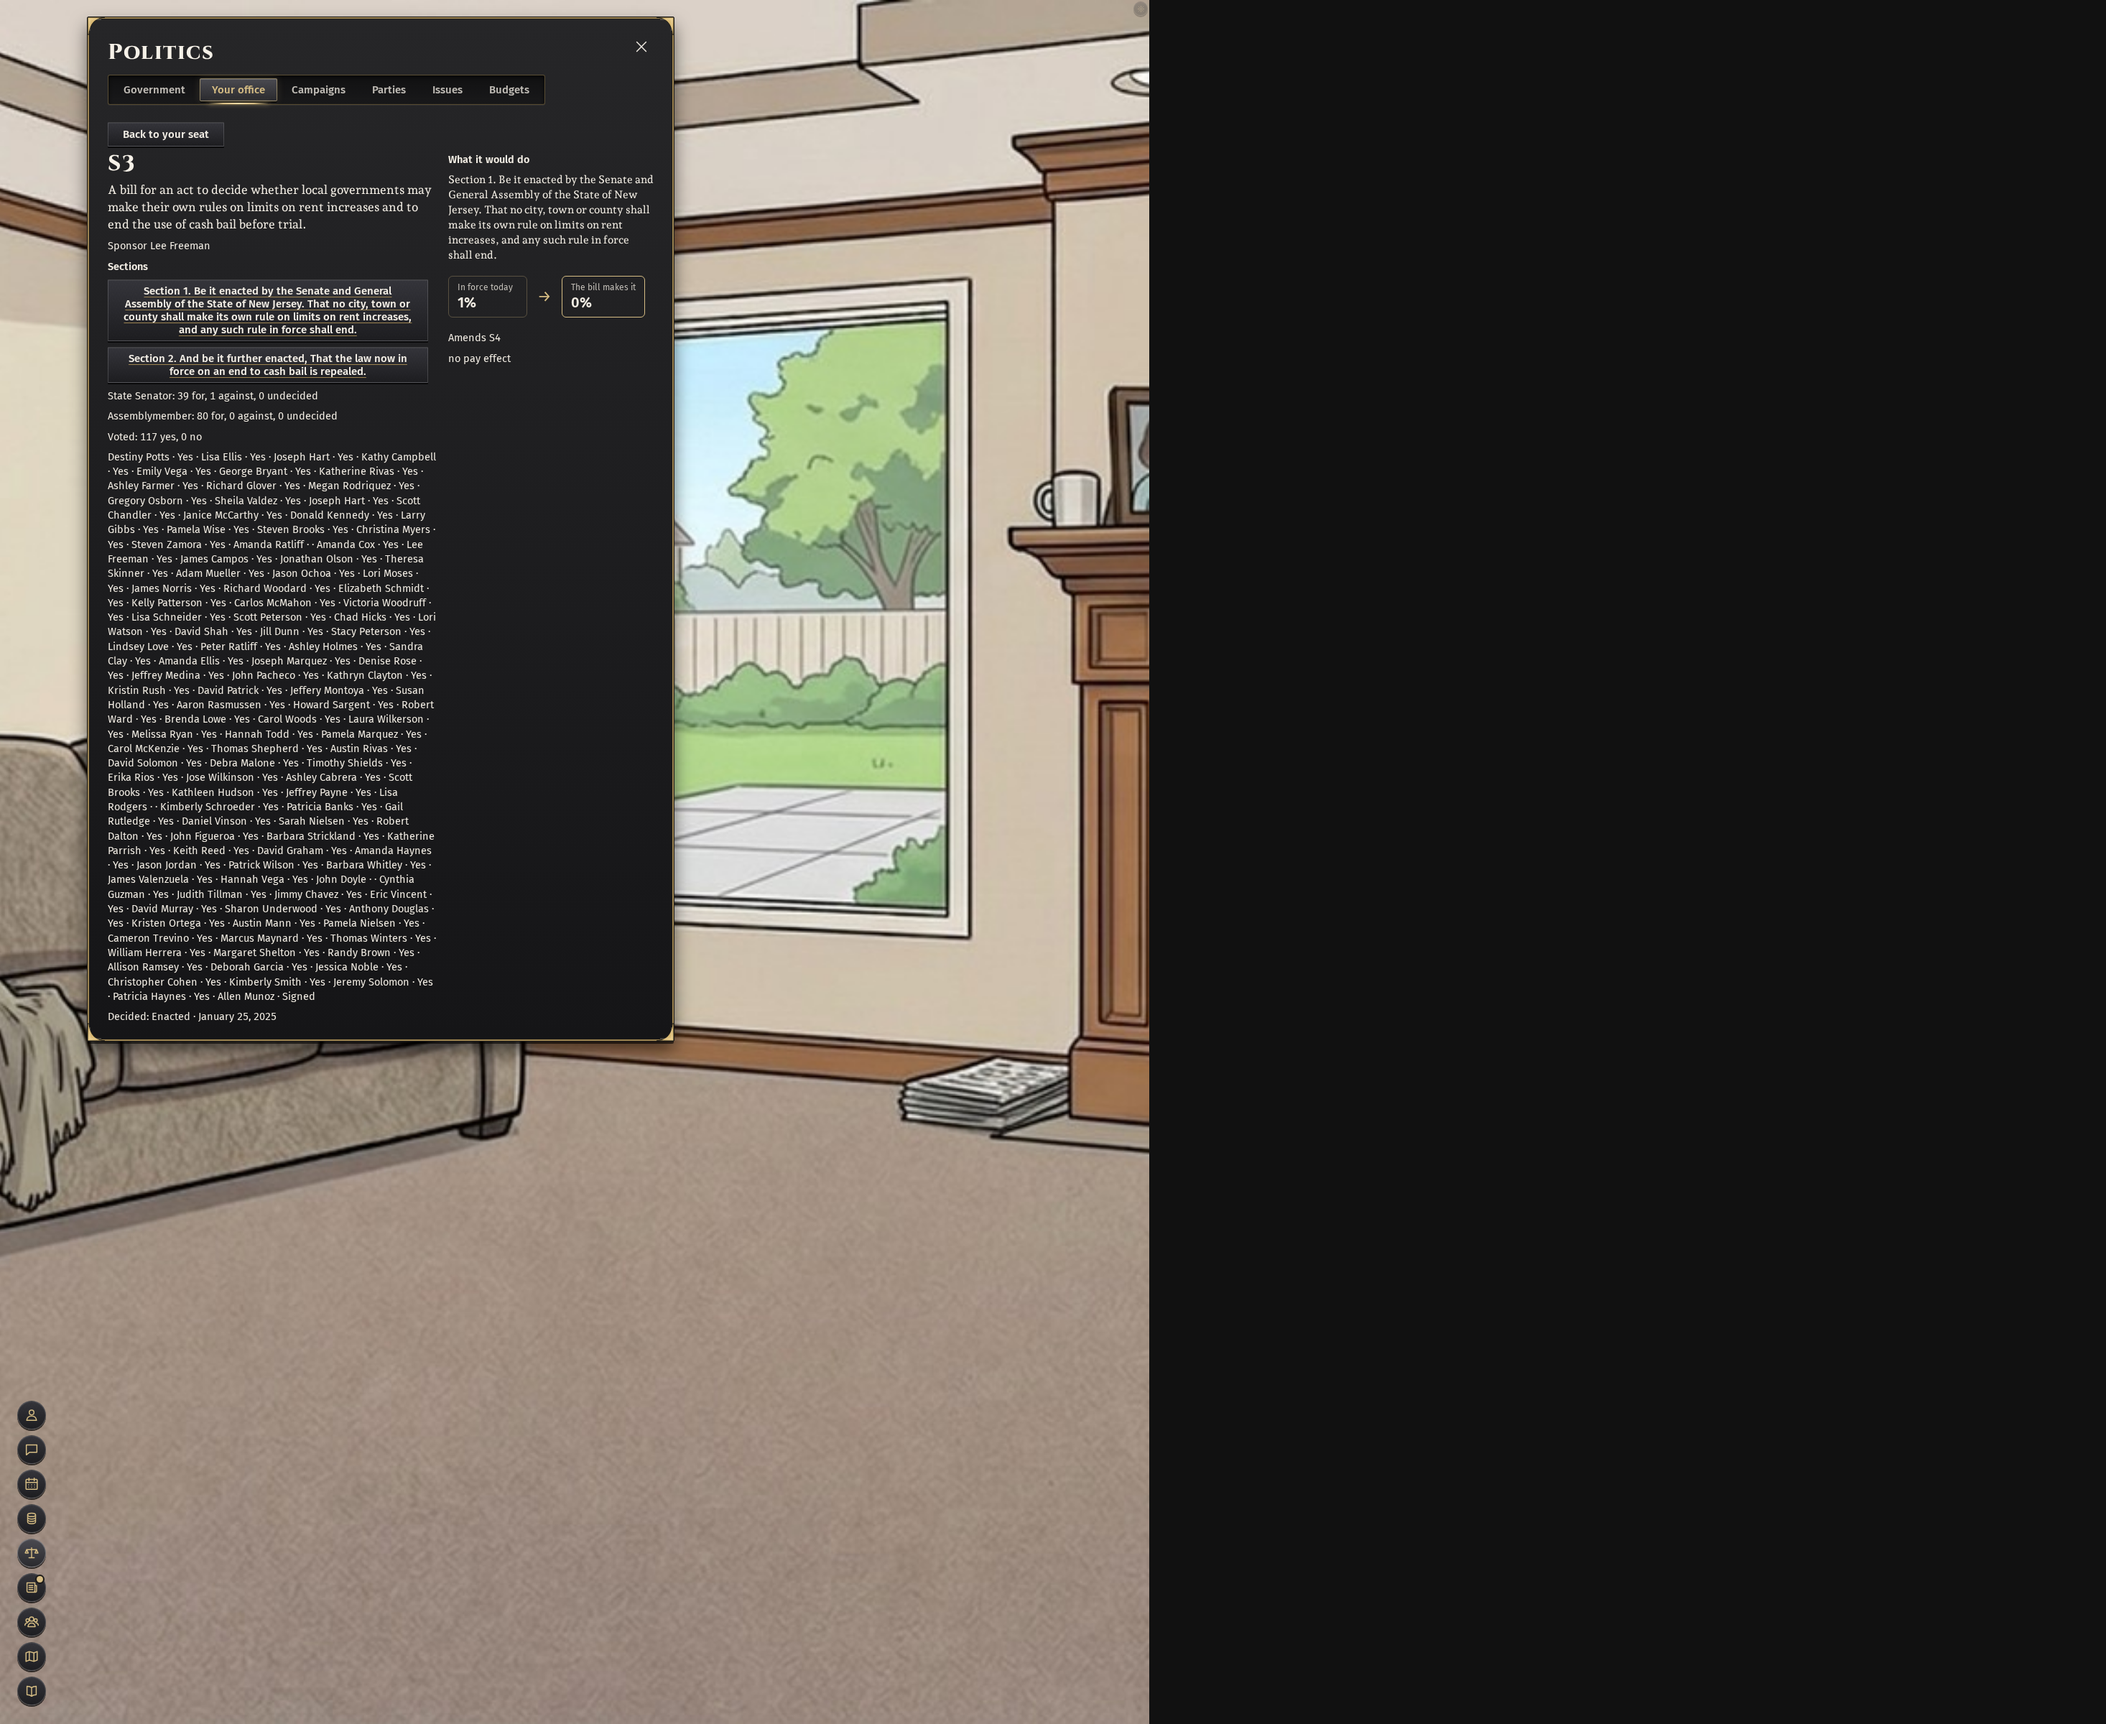
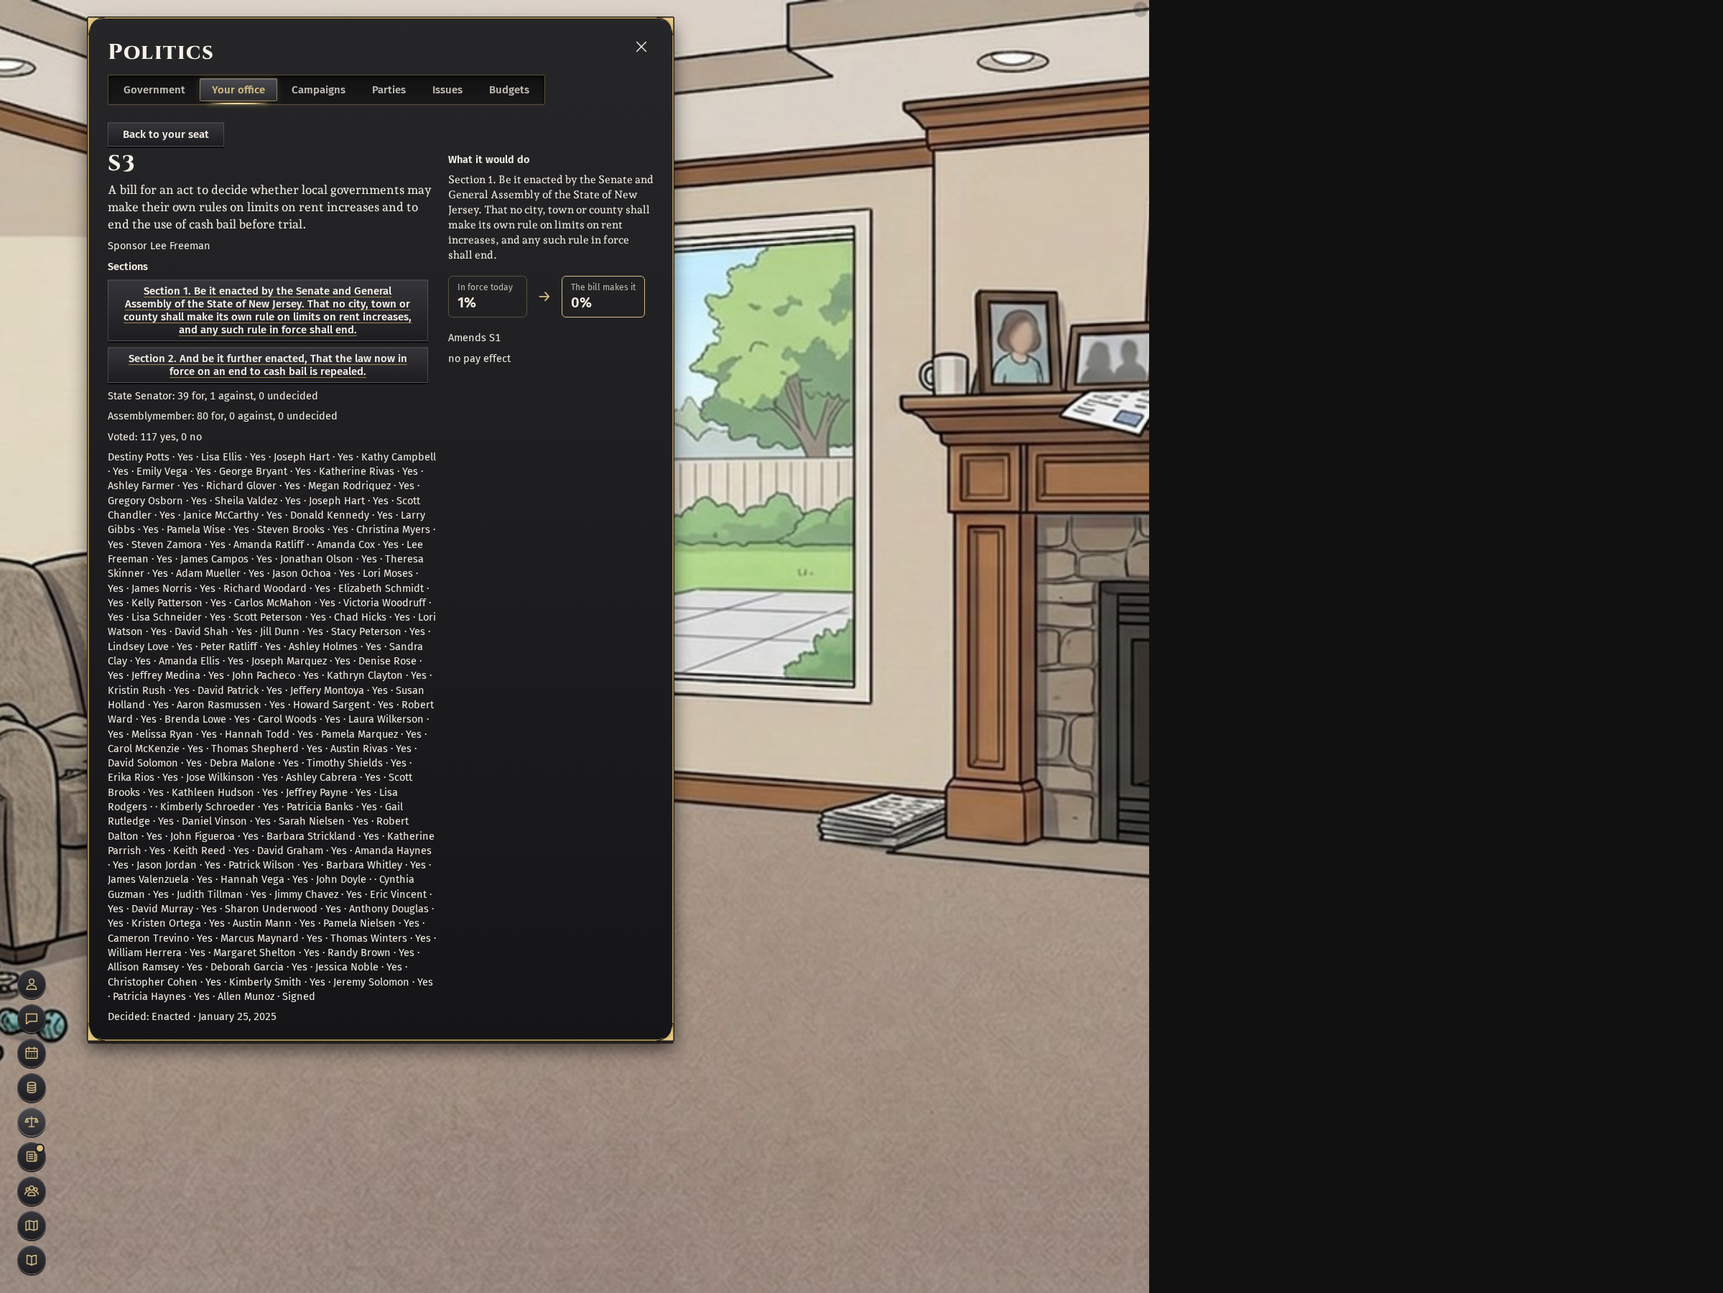
perf: reuse current law answers and capture bills before their effective dates

diff --git a/scripts/law-levels-state-proof.ts b/scripts/law-levels-state-proof.ts
@@ -3,7 +3,8 @@
  * A losing vote is a reported unsuccessful draw, not a forced outcome.
  */
 import { randomBytes } from "node:crypto";
-import { writeFileSync } from "node:fs";
+import { mkdirSync, writeFileSync } from "node:fs";
+import { join } from "node:path";
 import { drawPlace } from "../scripts/core2-year/place";
 import { benchRequest, benchWorld, serialize } from "../src/bench/handler";
 import { townSeats } from "../src/core2/modules/offices";
@@ -32,7 +33,9 @@ async function main() {
   const replay = process.argv[2] ?? randomBytes(8).toString("hex");
   const place = drawPlace(replay, "played-law-reversals");
   console.log(JSON.stringify({ replay, place }));
-  if (process.argv.includes("--serve")) await import("../src/bench/server");
+  const screenshotDir = process.env.LAW_PROOF_SCREENSHOTS;
+  if (process.argv.includes("--serve") || screenshotDir)
+    await import("../src/bench/server");
   const request = async (path: string) => {
     const r = await benchRequest(
       "POST",
@@ -128,6 +131,67 @@ async function main() {
         `/api/desk?${new URLSearchParams({ billId: bill.id, how: "sign" })}`,
       );
       result = billOf(api, bill.id);
+    }
+    if (
+      screenshotDir &&
+      body === state?.id &&
+      proof.length >= 2 &&
+      result.status === "enacted"
+    ) {
+      // Read the native enacted paper before its effective date, while the
+      // preceding law still governs. Restore the executive before time moves.
+      await request(`/api/play?id=${encodeURIComponent(memberKey(sponsor))}`);
+      const { chromium } = await import("playwright");
+      const browser = await chromium.launch({ headless: true });
+      try {
+        const page = await browser.newPage({
+          viewport: { width: 1600, height: 1800 },
+        });
+        await page.goto("http://localhost:3000/play");
+        await page.getByTestId("continue").click();
+        await page.locator("#game").waitFor({ state: "visible" });
+        await page
+          .getByRole("button", { name: "Politics", exact: true })
+          .click();
+        await page.locator("#sheet-tabs [data-tab=office]").click();
+        await page.locator(".office-screen").waitFor({ state: "visible" });
+        const drafts = page.getByRole("button", {
+          name: "Drafts",
+          exact: true,
+        });
+        if (await drafts.isVisible()) await drafts.click();
+        if (proof.length === 3)
+          await page
+            .getByRole("button", { name: "Next page", exact: true })
+            .click();
+        await page
+          .getByRole("button", { name: "Read the bill", exact: true })
+          .nth(proof.length === 2 ? 1 : 0)
+          .click();
+        await page
+          .getByRole("button", { name: "Back to your seat", exact: true })
+          .waitFor({ state: "visible" });
+        await page
+          .getByRole("heading", {
+            name: billPaper(core, bill.id).spoken,
+            exact: true,
+          })
+          .waitFor({ state: "visible" });
+        mkdirSync(screenshotDir, { recursive: true });
+        await page.screenshot({
+          path: join(
+            screenshotDir,
+            proof.length === 2 ? "ban-paper.png" : "restore-paper.png",
+          ),
+          fullPage: true,
+        });
+      } finally {
+        await browser.close();
+      }
+      if (executive)
+        await request(
+          `/api/play?id=${encodeURIComponent(memberKey(executive))}`,
+        );
     }
     const rows = api
       .moduleState(LAWS_MODULE_ID)

diff --git a/src/core2/modules/laws.ts b/src/core2/modules/laws.ts
@@ -544,6 +544,24 @@ export function lawInForce(
   series: string,
   date: string = api.state.date,
 ): LawInForceAnswer {
+  if (tableTraceOn() || date !== api.state.date)
+    return readLawInForce(api, series, date);
+  const writes = api.moduleState(LAWS_MODULE_ID).writes;
+  let kept = todaysLaw.get(api.state);
+  if (!kept || kept.writes !== writes || kept.date !== date)
+    todaysLaw.set(api.state, (kept = { writes, date, answers: new Map() }));
+  let answer = kept.answers.get(series);
+  if (!answer)
+    kept.answers.set(series, (answer = readLawInForce(api, series, date)));
+  return answer;
+}
+
+/** The sole uncached path, also used for history and traced reads. */
+function readLawInForce(
+  api: CoreAPI,
+  series: string,
+  date: string,
+): LawInForceAnswer {
   const chain = lawChain(api);
   // Only a wage floor reads the state's grant of local authority, and only
   // the sales tax its state's average local rate: no other law reads them.
@@ -596,11 +614,14 @@ export function localPowerBarred(
   question: string,
   date: string = api.state.date,
 ): boolean {
-  const row = lawInForce(
-    api,
-    `${LOCAL_POWER_PREFIX}${question}`,
-    date,
-  ).levels.find((level) => level.level === "state")?.row;
+  const series = `${LOCAL_POWER_PREFIX}${question}`;
+  // Most questions have no grant/bar act yet. An empty series cannot change
+  // the researched starting rule; do not build an empty answer for each read.
+  const row = seriesRows(api, series).length
+    ? lawInForce(api, series, date).levels.find(
+        (level) => level.level === "state",
+      )?.row
+    : undefined;
   if (row && row.value !== null) return row.value === 0;
   return (
     POLICY_QUESTIONS[question]?.answers[lawChain(api).stateKey]?.preempts ===
@@ -625,15 +646,7 @@ export function lawInForceToday(
   api: CoreAPI,
   series: string,
 ): LawInForceAnswer {
-  if (tableTraceOn()) return lawInForce(api, series);
-  const writes = api.moduleState(LAWS_MODULE_ID).writes,
-    date = api.state.date;
-  let kept = todaysLaw.get(api.state);
-  if (!kept || kept.writes !== writes || kept.date !== date)
-    todaysLaw.set(api.state, (kept = { writes, date, answers: new Map() }));
-  let answer = kept.answers.get(series);
-  if (!answer) kept.answers.set(series, (answer = lawInForce(api, series)));
-  return answer;
+  return lawInForce(api, series);
 }
 
 /**

diff --git a/src/core2/pending-law-reversal.test.ts b/src/core2/pending-law-reversal.test.ts
@@ -60,6 +60,7 @@ it(`a later act can advance or repeal a pending law: ${place.name}, replay ${rep
     ).toBeNull();
     const repeal = write(0, opening, "reader-later-repeal");
     expect(federal(later)?.id).toBe(repeal.id);
+    expect(federal(opening)?.id).toBe(repeal.id);
     expect(lawInForce(api, question, later).governing?.id).toBe(
       starting.governing?.id,
     );

diff --git a/docs/reports/law-levels-state-reversal-2026-11-07/README.md b/docs/reports/law-levels-state-reversal-2026-11-07/README.md
@@ -13,18 +13,20 @@ The replay was drawn before the first probe. The route opens an ordinary new lif
 
 The ordinance that returns is `law:place:3429220:city:us-policy-positions:housing-land-use.rent-stabilization:general:2025-01-24:2025-3`. The state answer during the ban is `law:US-NJ:state:us-policy-positions:housing-land-use.rent-stabilization:general:starting`. [Records](records.json) preserve the actual writer and reader output at each step, including bill IDs, effective dates, authority and governing record. Full roll calls are built on demand in the bill paper; the report keeps their tallies.
 
-[Ban paper](ban-paper.png) and [restoration paper](restore-paper.png) were captured from the native Politics → Your office → Read the bill screen, after the sequence. Both show the bill text, roll call and enacted decision. The ordinary floor process added other sections: S3 repeals the cash-bail question and S4 repeals the teacher-salary question. Those sections are retained in the proof.
+[Ban paper](ban-paper.png) and [restoration paper](restore-paper.png) were captured from the native Politics → Your office → Read the bill screen, after each vote and signature, before that act takes effect. S3 shows permission changing from 1 to 0; S4 shows 0 to 1 and correctly names S3 as the law it amends. Both show the bill text, roll call and enacted decision. The ordinary floor process added other sections: S3 repeals the cash-bail question and S4 repeals the teacher-salary question. Those sections are retained in the proof.
 
-The papers' right-hand estimates read today's law: reopening S3 after S4 says “Amends S4,” and a local-power switch is displayed as a percentage. These are observed presentation limitations, not historical evidence. The roll calls and decisions are historical; the saved law-reader answers above establish suspension and restoration. No screen code was changed.
+The permission switch still displays as a percentage, an observed presentation limitation. Reopening historical papers after later acts also makes the estimate read today's law. The screenshots avoid that ambiguity by recording each enacted bill before its effective date; the saved law-reader answers establish what governs after each date. No screen code was changed.
+
+The law reader reuses its existing per-day result cache for all current-date callers, clears it on a law write or date change, and still resolves historical or traced reads afresh. A series with no grant/bar rows skips construction of an empty authority answer. The replay after those changes has the same bill IDs, vote counts and governing-law answers as the original screenshot run.
 
[1 lines of base64/hex data omitted]
 
 Reproduce from the repository root (use the required environment for every npm command):
 
 ```sh
-OCD_STORAGE_OVERRIDE="cloud session, owner approved Oct 14" NODE_OPTIONS=--max-old-space-size=8192 node --import tsx scripts/law-levels-state-proof.ts 8d5e52aae98296b1 --serve
+OCD_STORAGE_OVERRIDE="cloud session, owner approved Oct 14" NODE_OPTIONS=--max-old-space-size=8192 LAW_PROOF_SCREENSHOTS=/tmp/law-levels-state-papers node --import tsx scripts/law-levels-state-proof.ts 8d5e52aae98296b1 --serve
 ```
 
-The script writes `/tmp/law-levels-state-proof.json`, leaves the senator selected and serves `/play`. Continue the existing life, open Politics and Your office, read S3 on page one and S4 on page two. Without a replay argument it draws a fresh place; a losing vote is reported as an unsuccessful proof, never forced through.
+The script writes `/tmp/law-levels-state-proof.json` and captures the papers under `/tmp/law-levels-state-papers` with Playwright. Set `PLAYWRIGHT_BROWSERS_PATH` if the browser is installed outside Playwright's default location. It leaves the senator selected and serves `/play`. Continue the existing life, open Politics and Your office, read S3 on page one and S4 on page two. Without a replay argument it draws a fresh place; a losing vote is reported as an unsuccessful proof, never forced through.
 
 This proves the state half of the requested played reversal. Congress's played enactment/repeal, exhaustive starting-law repeal coverage and the remaining federal authority research are still open.
